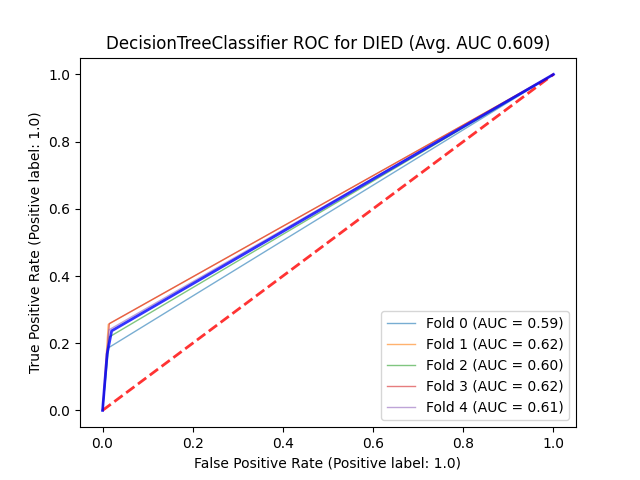
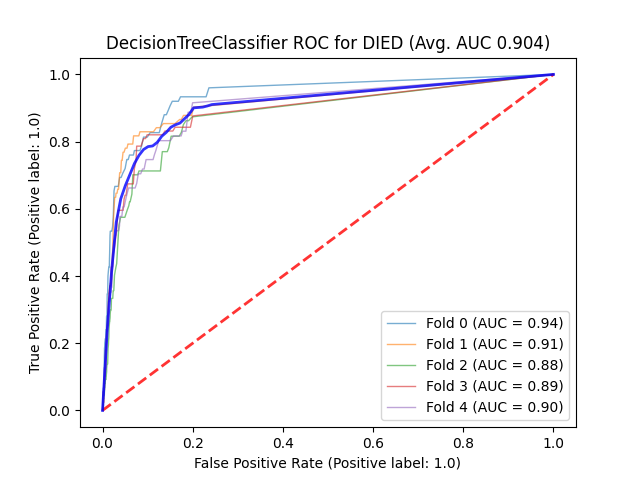
Make DT more amenable to ROC curves

diff --git a/modeling/modelingMain.py b/modeling/modelingMain.py
@@ -10,7 +10,7 @@ if __name__ == '__main__':
     df = pd.read_csv(f"{util.SETTINGS['cache_path']}/preprocessed.csv")
 
     models = {
-        'DT': tree.DecisionTreeClassifier(),
+        'DT': tree.DecisionTreeClassifier(min_samples_leaf=100),
         'RF': RandomForestClassifier(n_jobs=-1, n_estimators=500),
         'LR': LogisticRegression(n_jobs=-1, max_iter=10000)
     }
